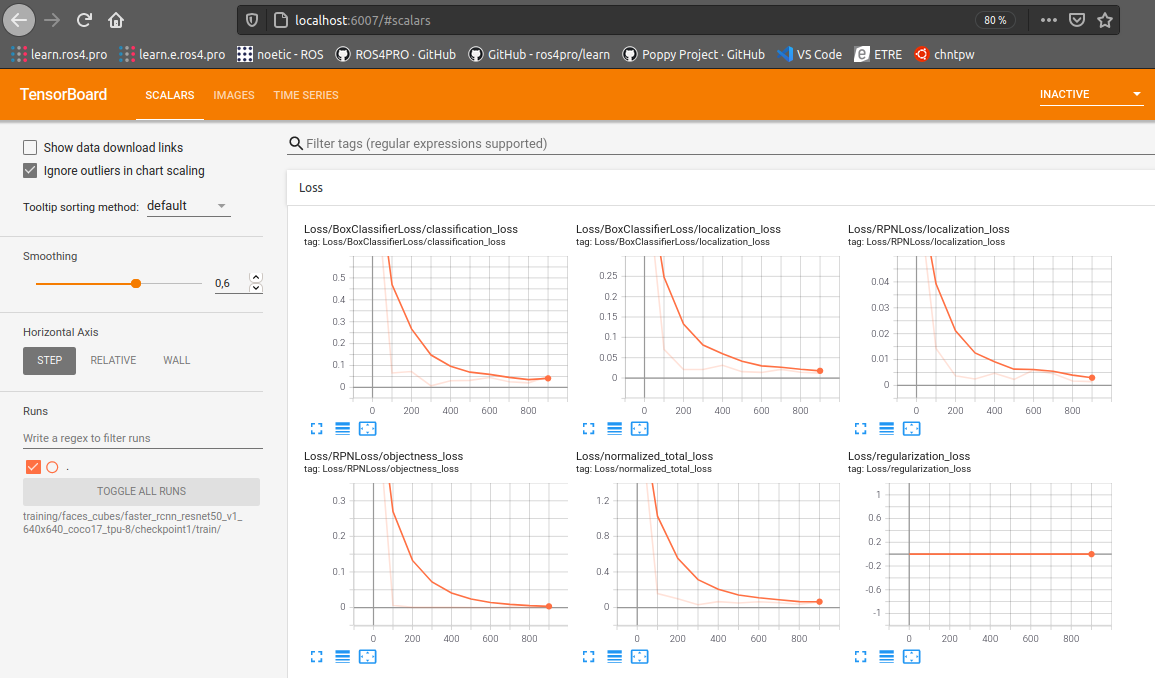
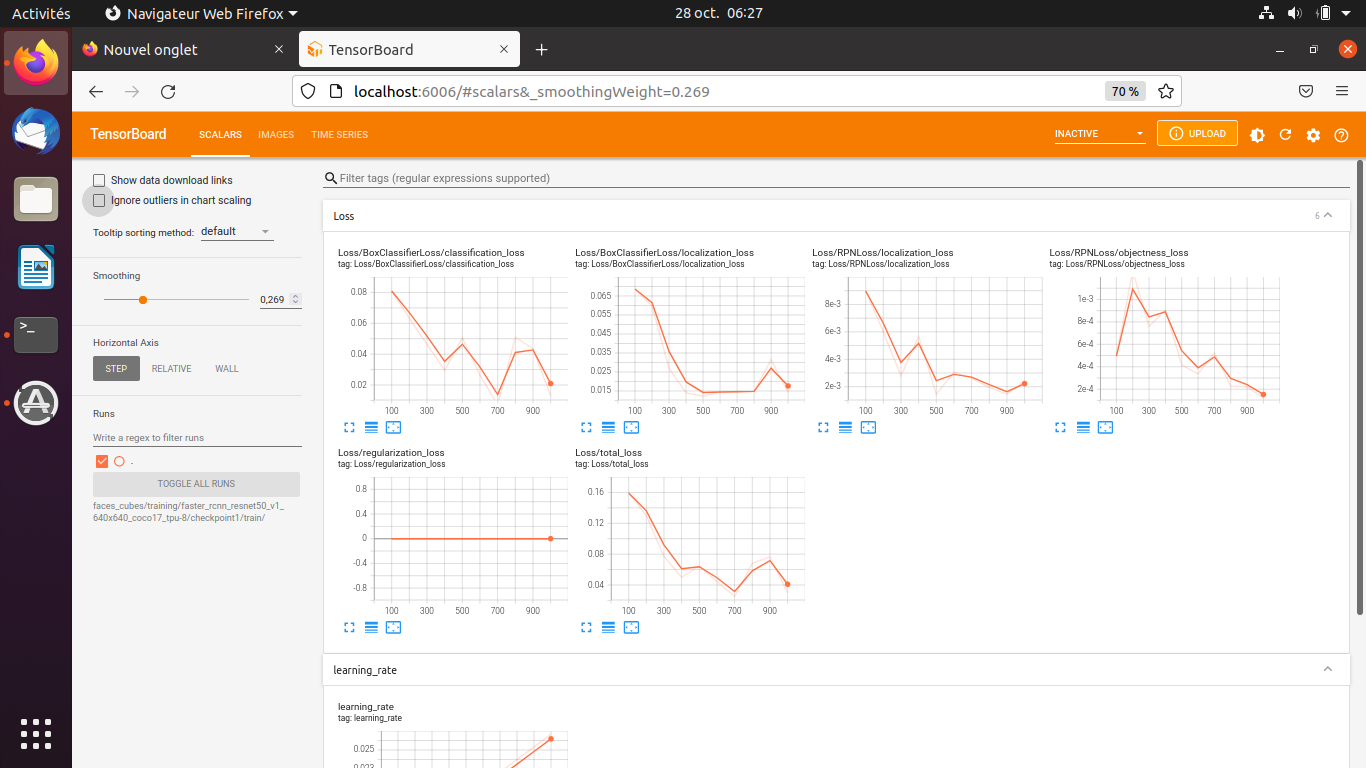
Update for workshop 28 October 2021

diff --git a/content/french/vision/object_detection_tf2/re-train_network/index.md b/content/french/vision/object_detection_tf2/re-train_network/index.md
@@ -102,32 +102,60 @@ Au bout d'un "certain temps" (qui peut être assez long, plusieurs dizaines de m
 
 	...
 	...
-	W1027 22:44:53.606964 140698521184000 deprecation.py:542] From /home/user/miniconda3/envs/tf2/lib/python3.8/site-packages/tensorflow/python/util/ 
-	deprecation.py:617: calling map_fn_v2 (from tensorflow.python.ops.map_fn) with dtype is deprecated and will be removed in a future version.
-    Instructions for updating:
-    Use fn_output_signature instead
-
-    INFO:tensorflow:Step 100 per-step time 37.683s
-    I1027 23:47:41.690228 140700337385856 model_lib_v2.py:698] Step 100 per-step time 37.683s
-    INFO:tensorflow:{'Loss/BoxClassifierLoss/classification_loss': 0.099481136,
-     'Loss/BoxClassifierLoss/localization_loss': 0.05722714,
-     'Loss/RPNLoss/localization_loss': 0.00528939,
-     'Loss/RPNLoss/objectness_loss': 0.0010905334,
+    INFO:tensorflow:Step 100 per-step time 18.002s
+    I1028 00:58:19.951609 140629825712512 model_lib_v2.py:698] Step 100 per-step time 18.002s
+    INFO:tensorflow:{'Loss/BoxClassifierLoss/classification_loss': 0.08096047,
+     'Loss/BoxClassifierLoss/localization_loss': 0.06868178,
+     'Loss/RPNLoss/localization_loss': 0.008976435,
+     'Loss/RPNLoss/objectness_loss': 0.000495165,
      'Loss/regularization_loss': 0.0,
-     'Loss/total_loss': 0.1630882,
+     'Loss/total_loss': 0.15911385,
      'learning_rate': 0.014666351}
-    I1027 23:47:41.776031 140700337385856 model_lib_v2.py:701] {'Loss/BoxClassifierLoss/classification_loss': 0.099481136,
-     'Loss/BoxClassifierLoss/localization_loss': 0.05722714,
-     'Loss/RPNLoss/localization_loss': 0.00528939,
-     'Loss/RPNLoss/objectness_loss': 0.0010905334,
+    I1028 00:58:20.032363 140629825712512 model_lib_v2.py:701] {'Loss/BoxClassifierLoss/classification_loss': 0.08096047,
+     'Loss/BoxClassifierLoss/localization_loss': 0.06868178,
+     'Loss/RPNLoss/localization_loss': 0.008976435,
+     'Loss/RPNLoss/objectness_loss': 0.000495165,
      'Loss/regularization_loss': 0.0,
-     'Loss/total_loss': 0.1630882,
+     'Loss/total_loss': 0.15911385,
      'learning_rate': 0.014666351}
+    INFO:tensorflow:Step 200 per-step time 17.134s
+    I1028 01:26:52.862514 140629825712512 model_lib_v2.py:698] Step 200 per-step time 17.134s
+    INFO:tensorflow:{'Loss/BoxClassifierLoss/classification_loss': 0.063115016,
+     'Loss/BoxClassifierLoss/localization_loss': 0.059545986,
+     'Loss/RPNLoss/localization_loss': 0.006001271,
+     'Loss/RPNLoss/objectness_loss': 0.0012521433,
+     'Loss/regularization_loss': 0.0,
+     'Loss/total_loss': 0.12991442,
+     'learning_rate': 0.0159997}
+    I1028 01:26:52.864115 140629825712512 model_lib_v2.py:701] {'Loss/BoxClassifierLoss/classification_loss': 0.063115016,
+     'Loss/BoxClassifierLoss/localization_loss': 0.059545986,
+     'Loss/RPNLoss/localization_loss': 0.006001271,
+     'Loss/RPNLoss/objectness_loss': 0.0012521433,
+     'Loss/regularization_loss': 0.0,
+     'Loss/total_loss': 0.12991442,
+     'learning_rate': 0.0159997}
+    ...
+    INFO:tensorflow:Step 1000 per-step time 17.001s
+    I1028 05:13:56.353814 140629825712512 model_lib_v2.py:698] Step 1000 per-step time 17.001s
+    INFO:tensorflow:{'Loss/BoxClassifierLoss/classification_loss': 0.012904001,
+     'Loss/BoxClassifierLoss/localization_loss': 0.014184773,
+     'Loss/RPNLoss/localization_loss': 0.002441862,
+     'Loss/RPNLoss/objectness_loss': 0.0001208472,
+     'Loss/regularization_loss': 0.0,
+     'Loss/total_loss': 0.029651484,
+     'learning_rate': 0.0266665}
+    I1028 05:13:56.354788 140629825712512 model_lib_v2.py:701] {'Loss/BoxClassifierLoss/classification_loss': 0.012904001,
+     'Loss/BoxClassifierLoss/localization_loss': 0.014184773,
+     'Loss/RPNLoss/localization_loss': 0.002441862,
+     'Loss/RPNLoss/objectness_loss': 0.0001208472,
+     'Loss/regularization_loss': 0.0,
+     'Loss/total_loss': 0.029651484,
+     'learning_rate': 0.0266665}
 
 En cas d'arrêt brutal du programme avec le message "Processus arrêté", ne pas hésiter à diminer la valeur du paramètre `batch_size` jusquà 2, voire 1 si nécessaire.... <br>
 Même avec un `batch_size` de 2, le processus Python peut nécessiter jusqu'à 2 ou 3 Gio de RAM pour lui tout seul, ce qui peut mettre certains portables en difficulté...
 
-Dans l'exemple ci-dessus, on voit des logs tous les 100 pas, avec environ 37 secondes par pas, soit environ 1 heure entre chaque affichage et environ 10h de calcul pour les 1000 pas !!! Ce calcul est fait avec `batch_size=2` sur un "petit CPU" (AMD A9-9420 RADEON R5 à 3 GHz) : il faudrait diminuer  `batch_size` à 1 pour avoir des temps de calcul plus raisonnables.
+Dans l'exemple ci-dessus, on voit des logs tous les 100 pas, avec environ ~17 secondes par pas, soit environ 29 minutes entre chaque affichage et environ 5h de calcul pour les 1000 pas.  Ce calcul est fait avec `batch_size=1` sur un "petit CPU" (AMD A9-9420 RADEON R5 à 3 GHz)..
 
 Une fois l'entraînement terminé tu peux analyser les statistiques d'entraînement avec `tensorboard` en tapant la commande :
 ```bash
@@ -150,33 +178,39 @@ Copie le script Python `exporter_main_v2.py` situé dans le dossier `models/reas
 # From within tod_tf2
 (tf2) user@host $ cp models/research/object_detection/exporter_main_v2.py .
 (tf2) user@host $ python exporter_main_v2.py --input_type image_tensor --pipeline_config_path $PTN_DIR/pipeline.config --trained_checkpoint_dir $PTN_DIR/checkpoint1 --output_directory $PTN_DIR/saved_model1
+...some stuff....
 ```
 Le script Python créé le fichier `saved_model.pb` dans le dossier `$PTN_DIR/saved_model1/saved_model` :
 
 ```bash
 # From within tod_tf2
-(tf2) user@host:~ $ tree training/
-faces_cubes/
-└── training
-    └── faster_rcnn_resnet50_v1_640x640_coco17_tpu-8
-        ├── checkpoint1
-        │   ├── checkpoint
-        │   ├── ckpt-1.data-00000-of-00001
-        │   ├── ckpt-1.index
-        │   └── train
-        │       └── events.out.tfevents.1620391994.pikatchou.30554.1504.v2
-        ├── pipeline.config
-        ├── saved_model1
-        │   ├── checkpoint
-        │   │   ├── checkpoint
-        │   │   ├── ckpt-0.data-00000-of-00001
-        │   │   └── ckpt-0.index
-        │   ├── pipeline.config
-        │   └── saved_model
-        │       ├── assets
-        │       ├── saved_model.pb
-        │       └── variables
-        │           ├── variables.data-00000-of-00001
-        │           └── variables.index
+(tf2) user@host:~ $ tree faces_cubes/training/
+faces_cubes/training/
+├── faster_rcnn_resnet50_v1_640x640_coco17_tpu-8
+│   ├── checkpoint1
+│   │   ├── checkpoint
+│   │   ├── ckpt-1.data-00000-of-00001
+│   │   ├── ckpt-1.index
+│   │   ├── ckpt-2.data-00000-of-00001
+│   │   ├── ckpt-2.index
+│   │   └── train
+│   │       └── events.out.tfevents.1635373645.pikatchou.30316.0.v2
+│   ├── pipeline.config
+│   └── saved_model1
+│       ├── checkpoint
+│       │   ├── checkpoint
+│       │   ├── ckpt-0.data-00000-of-00001
+│       │   └── ckpt-0.index
+│       ├── pipeline.config
+│       └── saved_model
+│           ├── assets
+│           ├── saved_model.pb
+│           └── variables
+│               ├── variables.data-00000-of-00001
+│               └── variables.index
+├── label_map.pbtxt
+├── test.record
+└── train.record
+
 ```
 

diff --git a/content/french/vision/object_detection_tf2/evaluate_network_inferences/index.md b/content/french/vision/object_detection_tf2/evaluate_network_inferences/index.md
@@ -30,37 +30,32 @@ Par exemple pour faire la détection des cubes des images de test avec le résea
 
 ```bash
 # From within tod_tf2
-(tf2) user@host: $ python plot_object_detection_saved_model.py -p faces_cubes -s $PTN_DIR/saved_model1/saved_model -i images/faces_cubes/test/ -n 4
-
-Loading model...Done! Took 11.77 seconds
-
-Running inference for images/faces_cubes/test/image016.png... [2 1 1 2]
-[0.999408   0.99929774 0.9985869  0.99794155]
-[[0.4046488  0.13016616 0.6338345  0.31058723]
- [0.40798646 0.56277716 0.63340956 0.7373474 ]
- [0.40612057 0.3360289  0.63908    0.5120028 ]
- [0.40730068 0.7692113  0.6340802  0.9632611 ]]
-
-Running inference for images/faces_cubes/test/image018.png... [2 2 1 1]
-[0.9995958  0.99956626 0.99756575 0.9960402 ]
-[[0.4140944  0.62948036 0.6388739  0.7997428 ]
- [0.41462958 0.40451866 0.6399791  0.5834095 ]
- [0.41448513 0.19922832 0.63370967 0.36855492]
- [0.40865567 0.         0.63875306 0.16509269]]
-
-Running inference for images/faces_cubes/test/image019.png... [2 2 1 1]
-[0.99956614 0.99939644 0.9977343  0.99497354]
-[[0.41152024 0.43164197 0.6439534  0.6055011 ]
- [0.41524586 0.65218127 0.6408151  0.8317957 ]
- [0.40619218 0.20989983 0.6326463  0.40074167]
- [0.40634462 0.         0.6389088  0.18785618]]
-
-Running inference for images/faces_cubes/test/image017.png... [2 2 1 1]
-[0.999482   0.99903905 0.9982924  0.99810815]
-[[0.4101084  0.70229053 0.63589627 0.8758344 ]
- [0.4053984  0.05132582 0.6378698  0.23081933]
- [0.41257906 0.49104023 0.63610333 0.66249573]
- [0.40499112 0.29253355 0.63419634 0.46947986]]
+(tf2) user@host: $ ython plot_object_detection_saved_model.py -p faces_cubes -s $PTN_DIR/saved_model1/saved_model -i faces_cubes/images/test/ -n 4
+Loading model...Done! Took 13.23 seconds
+Running inference for faces_cubes/images/test/image016.png... [2 2 1 1]
+[0.9998258  0.99902177 0.99812204 0.9964721 ]
+[[0.40203822 0.12419666 0.64018315 0.30807328]
+ [0.4043577  0.76715255 0.6404976  0.9653229 ]
+ [0.40296176 0.5467712  0.63852876 0.7309122 ]
+ [0.3932786  0.32322642 0.64034694 0.5083482 ]]
+Running inference for faces_cubes/images/test/image018.png... [2 2 1 1]
+[0.99967873 0.9996051  0.9983627  0.99751186]
+[[0.40055594 0.6233792  0.63929296 0.80680573]
+ [0.40259457 0.4026048  0.63897103 0.58319676]
+ [0.4041245  0.19101582 0.6288158  0.3679664 ]
+ [0.40252358 0.         0.64536196 0.16534011]]
+Running inference for faces_cubes/images/test/image019.png... [2 2 1 1]
+[0.99970055 0.9993857  0.99750453 0.9968694 ]
+[[0.40160167 0.42744026 0.6401532  0.6097636 ]
+ [0.40586317 0.64189494 0.6397717  0.82715124]
+ [0.40226468 0.         0.6392519  0.18196338]
+ [0.39843452 0.20977092 0.6328793  0.3960455 ]]
+Running inference for faces_cubes/images/test/image017.png... [2 2 1 1]
+[0.9997949 0.9994717 0.9933088 0.9883559]
+[[0.40147427 0.6982088  0.63554984 0.87740797]
+ [0.39989385 0.04223634 0.6387966  0.24200168]
+ [0.40242052 0.4871788  0.6324738  0.66032267]
+ [0.39879817 0.2852207  0.6340168  0.4698804 ]]
 ```
 Pour chaque image traitée on affiche ici :
 * la liste des 4 labels des objets trouvé (1 ou 2)
